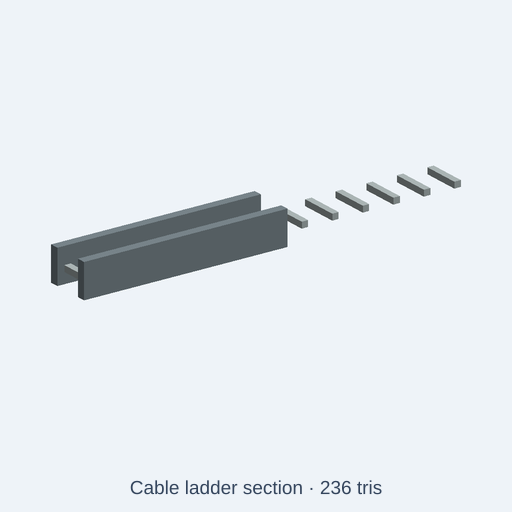
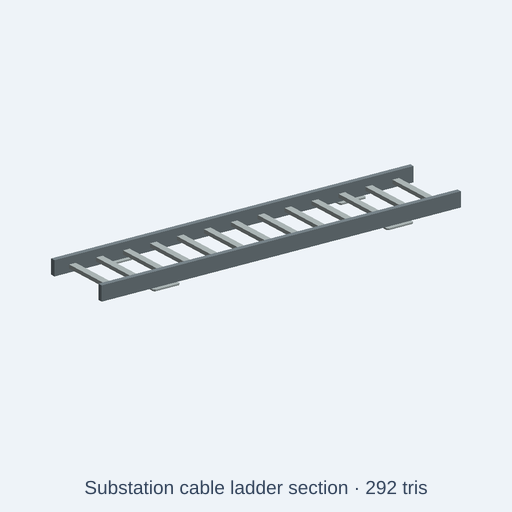
fix(catalog): repair substation ladder rungs and proportions

Changed region(s): [[0.0938, 0.3125, 0.9062, 0.5938], [0.1562, 0.9375, 0.8438, 0.9688]]

diff --git a/tests/integration/catalog/substationCableLadderFidelity.test.ts b/tests/integration/catalog/substationCableLadderFidelity.test.ts
@@ -1,0 +1,76 @@
+// SPDX-License-Identifier: MIT
+// Check actual exported geometry, not only PNG delivery: six rungs previously
+// floated beyond the 3 m rails, creating a visually plausible but broken prop.
+import { beforeAll, describe, expect, it } from 'vitest';
+import { resolve } from 'node:path';
+import { readFileSync } from 'node:fs';
+import { initOcct } from '../../../src/kernel/backends/occt/occtBackend';
+import { buildCatalogAssetWithGlb } from '../../../src/agent/catalog/buildCatalog';
+import { runAndExport } from '../../../src/agent/script-runtime/export';
+import { glbTriangles, type SoftTriangle } from '../../../scripts/lib/glbSoftwareRender';
+
+const sourceFile = resolve(import.meta.dirname, '../../../catalog/kits/grid-substation/substation-cable-ladder-section.kcad.ts');
+let tris: SoftTriangle[];
+let asset: Awaited<ReturnType<typeof buildCatalogAssetWithGlb>>['asset'];
+
+beforeAll(async () => {
+  await initOcct();
+  const built = await buildCatalogAssetWithGlb(resolve(import.meta.dirname, '../../..'),
+    'catalog/kits/grid-substation/substation-cable-ladder-section.kcad.ts');
+  asset = built.asset;
+  tris = await glbTriangles(built.glb);
+}, 30000);
+
+describe('substation cable ladder CC0 low-poly geometry', () => {
+  it('has a 3 m envelope, visible low side rails and a 13-rung deck', () => {
+    expect(asset.category).toBe('prop');
+    expect(asset.description).toMatch(/illustrative low-poly/i);
+    expect(tris.length).toBeGreaterThan(200);
+    expect(tris.length).toBeLessThanOrEqual(asset.triangleBudget);
+    const vertices = tris.flatMap(t => t.v);
+    const range = (i: 0 | 1 | 2) => [Math.min(...vertices.map(v => v[i])), Math.max(...vertices.map(v => v[i]))] as const;
+    expect(range(0)[0]).toBeCloseTo(-1.5, 4);
+    expect(range(0)[1]).toBeCloseTo(1.5, 4);
+    expect(range(1)[0]).toBeCloseTo(-0.012, 4);
+    expect(range(1)[1]).toBeCloseTo(0.120, 4);
+    // The rung top is 60 mm above the ground. Side rails and mounting pads
+    // do not have vertices at that height, so the x coordinates identify all rungs.
+    const rungEdges = [...new Set(vertices
+      .filter(v => Math.abs(v[1] - 0.060) < 1e-5)
+      .map(v => Math.round(v[0] * 1e6) / 1e6))].sort((a, b) => a - b);
+    expect(rungEdges).toHaveLength(26);
+    for (let i = 0; i < 13; i++) {
+      const left = rungEdges[2 * i]!;
+      const right = rungEdges[2 * i + 1]!;
+      expect(right - left).toBeCloseTo(0.055, 5);
+      expect((left + right) / 2).toBeCloseTo(-1.350 + i * 0.225, 5);
+      expect(Math.max(Math.abs(left), Math.abs(right))).toBeLessThan(1.5);
+    }
+  }, 30000);
+  it('preserves every rung and its rail envelope at both supported scale limits', async () => {
+    const source = readFileSync(sourceFile, 'utf8');
+    for (const scale of [0.65, 1.35]) {
+      const code = source.replace('param("scale", 1', `param("scale", ${scale}`);
+      expect(code).not.toBe(source);
+      const exported = await runAndExport({
+        code, fileName: 'substation-cable-ladder-section.kcad.ts',
+        scriptDir: resolve(sourceFile, '..'),
+        format: 'glb', options: { format: 'glb', style: 'lowpoly', lowpoly: { maxTriangles: 1800 } },
+      });
+      expect(exported.diagnostics.filter(d => d.severity === 'error')).toEqual([]);
+      const vertices = (await glbTriangles(exported.bytes)).flatMap(t => t.v);
+      const xs = vertices.map(v => v[0]);
+      expect(Math.min(...xs)).toBeCloseTo(-1.5 * scale, 4);
+      expect(Math.max(...xs)).toBeCloseTo(1.5 * scale, 4);
+      const top = 0.060 * scale;
+      const rungEdges = [...new Set(vertices
+        .filter(v => Math.abs(v[1] - top) < 1e-5)
+        .map(v => Math.round(v[0] * 1e6) / 1e6))].sort((a, b) => a - b);
+      expect(rungEdges).toHaveLength(26);
+      for (let i = 0; i < 13; i++) {
+        const center = (rungEdges[2 * i]! + rungEdges[2 * i + 1]!) / 2;
+        expect(center).toBeCloseTo((-1.35 + 0.225 * i) * scale, 5);
+      }
+    }
+  }, 30000);
+});

diff --git a/catalog/kits/grid-substation/substation-cable-ladder-section.kcad.ts b/catalog/kits/grid-substation/substation-cable-ladder-section.kcad.ts
@@ -3,7 +3,7 @@ meta({
   name: "substation-cable-ladder-section",
   license: "CC0-1.0",
   title: "Substation cable ladder section",
-  description: "Open cable ladder with twin stringers, evenly spaced rungs, and support feet. Material controls: galvanized steel, stainless steel; finish presets: weathered and maintenance.",
+  description: "Illustrative low-poly cable ladder with twin stringers, evenly spaced rungs, and mounting pads; not a fabrication model. Material controls: galvanized steel, stainless steel; finish presets: weathered and maintenance.",
   tags: ["grid substation", "electrical infrastructure", "utility yard", "low poly", "CC0", "cable and grounding"],
   kit: "grid-substation",
   category: "prop",
@@ -28,22 +28,17 @@ const beveledPlate = (width: number, depth: number, thickness: number, cut: numb
     .lineTo(-width / 2, depth / 2 - cut).lineTo(-width / 2, -depth / 2 + cut)
     .close().extrude(thickness);
 
-p.part("stringer-left", box(3000, 130, 500, true).translate(0, -281.25, 250).scale(scale).color(galvanizedSteel));
-p.part("stringer-right", box(3000, 130, 500, true).translate(0, 281.25, 250).scale(scale).color(galvanizedSteel));
-p.part("rung-1", box(95, 570, 90, true).translate(-1350, 0, 205).scale(scale).color(stainlessSteel));
-p.part("rung-2", box(95, 570, 90, true).translate(-900, 0, 205).scale(scale).color(stainlessSteel));
-p.part("rung-3", box(95, 570, 90, true).translate(-450, 0, 205).scale(scale).color(stainlessSteel));
-p.part("rung-4", box(95, 570, 90, true).translate(0, 0, 205).scale(scale).color(stainlessSteel));
-p.part("rung-5", box(95, 570, 90, true).translate(450, 0, 205).scale(scale).color(stainlessSteel));
-p.part("rung-6", box(95, 570, 90, true).translate(900, 0, 205).scale(scale).color(stainlessSteel));
-p.part("rung-7", box(95, 570, 90, true).translate(1350, 0, 205).scale(scale).color(stainlessSteel));
-p.part("rung-8", box(95, 570, 90, true).translate(1800, 0, 205).scale(scale).color(stainlessSteel));
-p.part("rung-9", box(95, 570, 90, true).translate(2250, 0, 205).scale(scale).color(stainlessSteel));
-p.part("rung-10", box(95, 570, 90, true).translate(2700, 0, 205).scale(scale).color(stainlessSteel));
-p.part("rung-11", box(95, 570, 90, true).translate(3150, 0, 205).scale(scale).color(stainlessSteel));
-p.part("rung-12", box(95, 570, 90, true).translate(3600, 0, 205).scale(scale).color(stainlessSteel));
-p.part("rung-13", box(95, 570, 90, true).translate(4050, 0, 205).scale(scale).color(stainlessSteel));
-p.part("support-foot", beveledPlate(240, 285, 160, 14.40).translate(-975, 0, 0).scale(scale).color(stainlessSteel));
-p.part("support-foot-2", beveledPlate(240, 285, 160, 14.40).translate(975, 0, 0).scale(scale).color(stainlessSteel));
+p.part("stringer-left", box(3000, 40, 120, true).translate(0, -281.25, 60).scale(scale).color(galvanizedSteel));
+p.part("stringer-right", box(3000, 40, 120, true).translate(0, 281.25, 60).scale(scale).color(galvanizedSteel));
+// 13 rungs fit inside the 3000 mm stringers; the outer edges stop 122.5 mm short of each end.
+for (let i = 0; i < 13; i++) {
+  const x = -1350 + i * 225;
+  p.part(`rung-${i + 1}`, box(55, 570, 30, true).translate(x, 0, 45).scale(scale).color(stainlessSteel));
+}
+for (const [xi, x] of [-975, 975].entries()) {
+  for (const [yi, y] of [-281.25, 281.25].entries()) {
+    p.part(`mounting-pad-${xi + 1}-${yi + 1}`, beveledPlate(220, 105, 12, 12).translate(x, y, -12).scale(scale).color(stainlessSteel));
+  }
+}
 
 return p.model();
